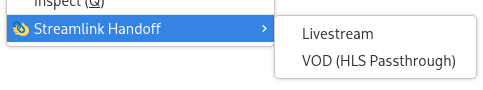
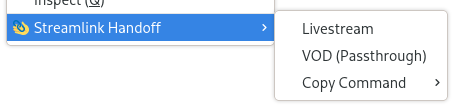
Add 'Copy Command' context menu item. The VOD option now includes both passthrough types. README refinements

Changed region(s): [[0.0, 0.0, 0.989, 0.8889], [0.5872, 0.9111, 0.989, 0.9556]]

diff --git a/extension/background.js b/extension/background.js
@@ -1,24 +1,11 @@
 const streamlinkPluginUrls = ["*://*.abema.tv/*", "*://*.adultswim.com/*", "*://*.play.afreecatv.com/*", "*://*.antena7.com.do/*", "*://*.atv.pe/*", "*://*.c9n.com.py/*", "*://*.canal10.com.ni/*", "*://*.canal12.com.sv/*", "*://*.chapintv.com/*", "*://*.elnueve.com.ar/*", "*://*.redbolivision.tv.bo/*", "*://*.repretel.com/*", "*://*.rts.com.ec/*", "*://*.snt.com.py/*", "*://*.tvc.com.ec/*", "*://*.vtv.com.hn/*", "*://*.17app.co/*", "*://*.daserste.de/*", "*://*.ardmediathek.de/*", "*://*.mediathek.daserste.de/*", "*://*.arte.tv/*", "*://*.atresplayer.com/*", "*://*.bbc.co.uk/iplayer/*", "*://*.bfmtv.com/*", "*://*.01net.com/*", "*://*.live.bigo.tv/*", "*://*.bigoweb.co/*", "*://*.live.bilibili.com/*", "*://*.bloomberg.com/*", "*://*.booyah.live/*", "*://*.players.brightcove.net/*", "*://*.btvplus.bg/*", "*://*.cbsnews.com/*", "*://*.armymedia.bg/*", "*://*.bgonair.bg/*", "*://*.bloombergtv.bg/*", "*://*.bnt.bg/*", "*://*.live.bstv.bg/*", "*://*.i.cdn.bg/*", "*://*.nova.bg/*", "*://*.mu-vi.tv/*", "*://*.ceskatelevize.cz/*", "*://*.showtv.com.tr/*", "*://*.haberturk.com/*", "*://*.showmax.com.tr/*", "*://*.showturk.com.tr/*", "*://*.bloomberght.com/*", "*://*.clubbingtv.com/*", "*://*.cnews.fr/*", "*://*.crunchyroll.com/*", "*://*.dailymotion.com/*", "*://*.delfi.lt/*", "*://*.delfi.ee/*", "*://*.delfi.lv/*", "*://*.dw.com/*", "*://*.dlive.tv/*", "*://*.cnnturk.com/*", "*://*.dreamturk.com.tr/*", "*://*.dreamtv.com.tr/*", "*://*.kanald.com.tr/*", "*://*.teve2.com.tr/*", "*://*.eurostartv.com.tr/*", "*://*.kralmuzik.com.tr/*", "*://*.ntv.com.tr/*", "*://*.startv.com.tr/*", "*://*.dr.dk/*", "*://*.earthcam.com/*", "*://*.egame.qq.com/*", "*://*.eltrecetv.com.ar/*", "*://*.euronews.com/*", "*://*.facebook.com/*", "*://*.filmon.com/*", "*://*.fox.com.tr/*", "*://*.funimation.com/*", "*://*.funimationnow.uk/*", "*://*.galatasaray.com/*", "*://*.garena.live/*", "*://*.goltelevision.com/*", "*://*.goodgame.ru/*", "*://*.docs.google.com/*", "*://*.drive.google.com/*", "*://*.replay.gulli.fr/*", "*://*.huajiao.com/*", "*://*.huya.com/*", "*://*.idf1.fr/*", "*://*.player.invintus.com/*", "*://*.fanxing.kugou.com/*", "*://*.live.line.me/*", "*://*.livestream.com/*", "*://*.lnk.lt/*", "*://*.lrt.lt/*", "*://*.ltv.lsm.lv/*", "*://*.mediaklikk.hu/*", "*://*.m4sport.hu/*", "*://*.mediavitrina.ru/*", "*://*.mildom.com/*", "*://*.mitele.es/*", "*://*.mjunoon.tv/*", "*://*.play.mrt.com.mk/*", "*://*.13tv.co.il/*", "*://*.nbc.com/*", "*://*.nbcnews.com/*", "*://*.nbcsports.com/*", "*://*.nhk.or.jp/nhkworld/*", "*://*.live.nicovideo.jp/*", "*://*.nimo.tv/*", "*://*.nos.nl/*", "*://*.news.now.com/*", "*://*.tv.nrk.no/*", "*://*.radio.nrk.no/*", "*://*.ntv.ru/*", "*://*.ok.ru/*", "*://*.olympicchannel.com/*", "*://*.olympics.com/*", "*://*.1plus1.video/*", "*://*.1tv.ru/*", "*://*.openrec.tv/*", "*://*.tvthek.orf.at/*", "*://*.pandalive.co.kr/*", "*://*.picarto.tv/*", "*://*.piczel.tv/*", "*://*.sketch.pixiv.net/*", "*://*.pluto.tv/*", "*://*.france.tv/*", "*://*.francetvinfo.fr/*", "*://*.live.qq.com/*", "*://*.radiko.jp/*", "*://*.radio.net/*", "*://*.radio.at/*", "*://*.radio.de/*", "*://*.radio.dk/*", "*://*.radio.es/*", "*://*.radio.fr/*", "*://*.radio.it/*", "*://*.radio.pl/*", "*://*.radio.pt/*", "*://*.radio.se/*", "*://*.raiplay.it/*", "*://*.reuters.com/*", "*://*.reuters.tv/*", "*://*.rotana.net/*", "*://*.rtbf.be/auvio/*", "*://*.rtbfradioplayer.be/*", "*://*.rtpa.es/*", "*://*.rtp.pt/play/*", "*://*.rtve.es/*", "*://*.rtvs.sk/*", "*://*.ruv.is/*", "*://*.play.sbs.co.kr/*", "*://*.schoolism.com/*", "*://*.senate.gov/*", "*://*.showroom-live.com/*", "*://*.sportal.bg/*", "*://*.sportschau.de/*", "*://*.ssh101.com/*", "*://*.watchstadium.com/*", "*://*.steamcommunity.com/*", "*://*.steam.tv/*", "*://*.streamable.com/*", "*://*.ott.streann.com/*", "*://*.centroecuador.ec/*", "*://*.columnaestilos.com/*", "*://*.evtv.online/noticias-de-venezuela/*", "*://*.telecuracao.com/*", "*://*.player.stv.tv/*", "*://*.svtplay.se/*", "*://*.oppetarkiv.se/*", "*://*.srf.ch/*", "*://*.rsi.ch/*", "*://*.teamliquid.net/*", "*://*.tl.net/*", "*://*.telefe.com/*", "*://*.tf1.fr/*", "*://*.lci.fr/*", "*://*.player.theplatform.com/*", "*://*.tlctv.com.tr/*", "*://*.atv.com.tr/*", "*://*.a2tv.com.tr/*", "*://*.ahaber.com.tr/*", "*://*.anews.com.tr/*", "*://*.aspor.com.tr/*", "*://*.atvavrupa.tv/*", "*://*.minikacocuk.com.tr/*", "*://*.minikago.com.tr/*", "*://*.sabah.com.tr/*", "*://*.tv360.com.tr/*", "*://*.ccma.cat/*", "*://*.tv4play.se/*", "*://*.fotbollskanalen.se/*", "*://*.tv5monde.com/*", "*://*.tivi5mondeplus.com/*", "*://*.tv8.com.tr/*", "*://*.tv999.bg/*", "*://*.player.tvibo.com/*", "*://*.tviplayer.iol.pt/*", "*://*.tvpstream.vod.tvp.pl/*", "*://*.tvr.by/*", "*://*.tvrplus.ro/*", "*://*.tvtoya.pl/*", "*://*.twitcasting.tv/*", "*://*.twitch.tv/*", "*://*.ustream.tv/*", "*://*.video.ibm.com/*", "*://*.ustvnow.com/*", "*://*.vidio.com/*", "*://*.vimeo.com/*", "*://*.thvli.vn/*", "*://*.vk.com/*", "*://*.vlive.tv/*", "*://*.vrt.be/vrtnu/*", "*://*.vtvgo.vn/*", "*://*.wasd.tv/*", "*://*.web.tv/*", "*://*.welt.de/*", "*://*.network.wwe.com/*", "*://*.youtube.com/*", "*://*.youtu.be/*", "*://*.yupptv.com/*", "*://*.zattoo.com/*", "*://*.iptv.glattvision.ch/*", "*://*.www.saktv.ch/*", "*://*.www.vtxtv.ch/*", "*://*.mobiltv.quickline.com/*", "*://*.www.quantum-tv.com/*", "*://*.tvonline.ewe.de/*", "*://*.nettv.netcologne.de/*", "*://*.tvplus.m-net.de/*", "*://*.player.waly.tv/*", "*://*.www.1und1.tv/*", "*://*.www.netplus.tv/*", "*://*.www.bbv-tv.net/*", "*://*.www.meinewelt.cc/*", "*://*.zdf.de/*", "*://*.zeenews.india.com/*", "*://*.zengatv.com/*", "*://*.zhanqi.tv/*"];
 
-browser.menus.create
-(
-  {
-    id: "streamlink-handoff",
-    title: "Livestream",
-    contexts: ["link"],
-    targetUrlPatterns: streamlinkPluginUrls
-  }
-);
+browser.menus.create({id: "streamlink-handoff", title: "Livestream", contexts: ["link"], targetUrlPatterns: streamlinkPluginUrls});
+browser.menus.create({id: "streamlink-handoff-vod", title: "VOD (Passthrough)", contexts: ["link"], targetUrlPatterns: streamlinkPluginUrls});
 
-browser.menus.create
-(
-  {
-    id: "streamlink-handoff-hls",
-    title: "VOD (HLS Passthrough)",
-    contexts: ["link"],
-    targetUrlPatterns: streamlinkPluginUrls
-  }
-);
+let copyMenu = browser.menus.create({title: "Copy Command", contexts: ["link"], targetUrlPatterns: streamlinkPluginUrls});
+browser.menus.create({id: "streamlink-handoff-copy", title: "Livestream", contexts: ["link"], targetUrlPatterns: streamlinkPluginUrls, parentId: copyMenu});
+browser.menus.create({id: "streamlink-handoff-vod-copy", title: "VOD (Passthrough)", contexts: ["link"], targetUrlPatterns: streamlinkPluginUrls, parentId: copyMenu});
 
 const nativeMessagingHostName = "streamlink_handoff_host";
 
@@ -33,16 +20,22 @@ browser.menus.onClicked.addListener(info =>
     let otherArgs = storageValues.otherArgs;
 
     let streamlinkArguments = [player, otherArgs, linkUrl, quality].join(" ").trim();
+    let streamlinkArgumentsVod = ["--player-passthrough=hls,http", streamlinkArguments].join(" ");
 
-    if (info.menuItemId == "streamlink-handoff")
+    switch (info.menuItemId)
     {
-      browser.runtime.sendNativeMessage(nativeMessagingHostName, streamlinkArguments);
-    }
-
-    if (info.menuItemId == "streamlink-handoff-hls")
-    {
-      streamlinkArguments = ["--player-passthrough=hls", streamlinkArguments].join(" ");
-      browser.runtime.sendNativeMessage(nativeMessagingHostName, streamlinkArguments);
+      case "streamlink-handoff":
+        browser.runtime.sendNativeMessage(nativeMessagingHostName, streamlinkArguments);
+        break;
+      case "streamlink-handoff-vod":
+        browser.runtime.sendNativeMessage(nativeMessagingHostName, streamlinkArgumentsVod);
+        break;
+      case "streamlink-handoff-copy":
+        navigator.clipboard.writeText("streamlink " + streamlinkArguments);
+        break;
+      case "streamlink-handoff-vod-copy":
+        navigator.clipboard.writeText("streamlink " + streamlinkArgumentsVod);
+        break;
     }
   });
 });

diff --git a/README.md b/README.md
@@ -16,8 +16,10 @@ Absolutely no data is collected by this extension.
 
 <kbd>![image](/img/context-menu.png?raw=true)</kbd>
 
-> :information_source: pictured above, the context menu includes a standard 'Livestream' launch item along with the [seekable-friendly](https://github.com/streamlink/streamlink/issues/134) 'VOD (HLS Passthrough)' alternate playback option
-
+> :information_source: The context menu includes three main options
+> * Standard 'Livestream' Streamlink behaviour
+> * [Seekable-friendly](https://github.com/streamlink/streamlink/issues/134) 'VOD (Passthrough)' passthrough option where the player handles stream transport
+> * The 'Copy Command' item copies the full Streamlink command line string for either of the above to the clipboard, _without_ launching the stream
 
 **Extension preferences**
 
@@ -36,7 +38,7 @@ The so-called 'native messaging host' is the local app/program/binary that inter
 
 For Streamlink Handoff, a major goal here was to create the most generic and minimal reference implementations possible, with little to no external dependencies.
 
-On Linux this is acheieved through a Bash shell script, and on Windows a PowerShell script called via a Batch file wrapper.
+On Linux this is achieved through a Bash shell script, and on Windows a PowerShell script called via a Batch file wrapper.
 
 By keeping the native messaging host programs lean and constructing Streamlink parameters entirely within the extension, any future updates should be made far simpler.
 
@@ -149,15 +151,15 @@ https://www.twitch.tv/monstercat
 
 If Firefox is open in Private Browsing mode, Streamlink Handoff must be [allowed to run in Private Windows](https://support.mozilla.org/kb/extensions-private-browsing).
 
-If the context menu is appearing but videos won't load, a initial troubleshooting step should be to check that Streamlink can successfully launch a video from the command line (with any chosen options) independent of Streamlink Handoff. For example, a simple (default) command, `streamlink twitch.tv/monstercat best`. If this fails, the general problem will need to be addressed before retrying the extension.
+In cases where the context menu appears but videos won't load, an initial troubleshooting step should be to check that Streamlink can successfully launch a video from the command line independent of Streamlink Handoff. Test using a basic command like `streamlink twitch.tv/monstercat best`, or use the 'Copy Command' option to copy the Streamlink command line string to the clipboard. If there are issues running direct from the command line, the general problem will need to be addressed before retrying the extension.
 
-You can also try rerunning the first time [native messaging host setup](#first-time-setup) for your platform to reapply recommended configuration.
+You can also try rerunning the first time [native messaging host setup](#first-time-setup) for your platform to reapply the latest recommended host configuration.
 
 ## Motivation
 
 Streamlink Handoff came about from wanting to create something I would personally use and find useful.
 
-As a user of the excellent [Streamlink Twitch GUI](https://streamlink.github.io/streamlink-twitch-gui/) application, it was dissapointing that changes and limitations of Twitch's new API resulted in downscaling of the app's functionality, along with making authentication mandatory.
+As a user of the excellent [Streamlink Twitch GUI](https://streamlink.github.io/streamlink-twitch-gui/) application, it was disappointing that changes and limitations of Twitch's new API resulted in downscaling of the app's functionality, along with making authentication mandatory.
 
 This was a reminder to the degree third-party applications can be at the mercy of a service's API. Factoring in services that would generally rather funnel users towards their own website or app experience, an open and feature complete API that fosters third-party apps could be seen as at odds. It therefore seems like native first-party websites are the only "sure thing" that can be relied upon long-term for video browsing/discovery.
 
